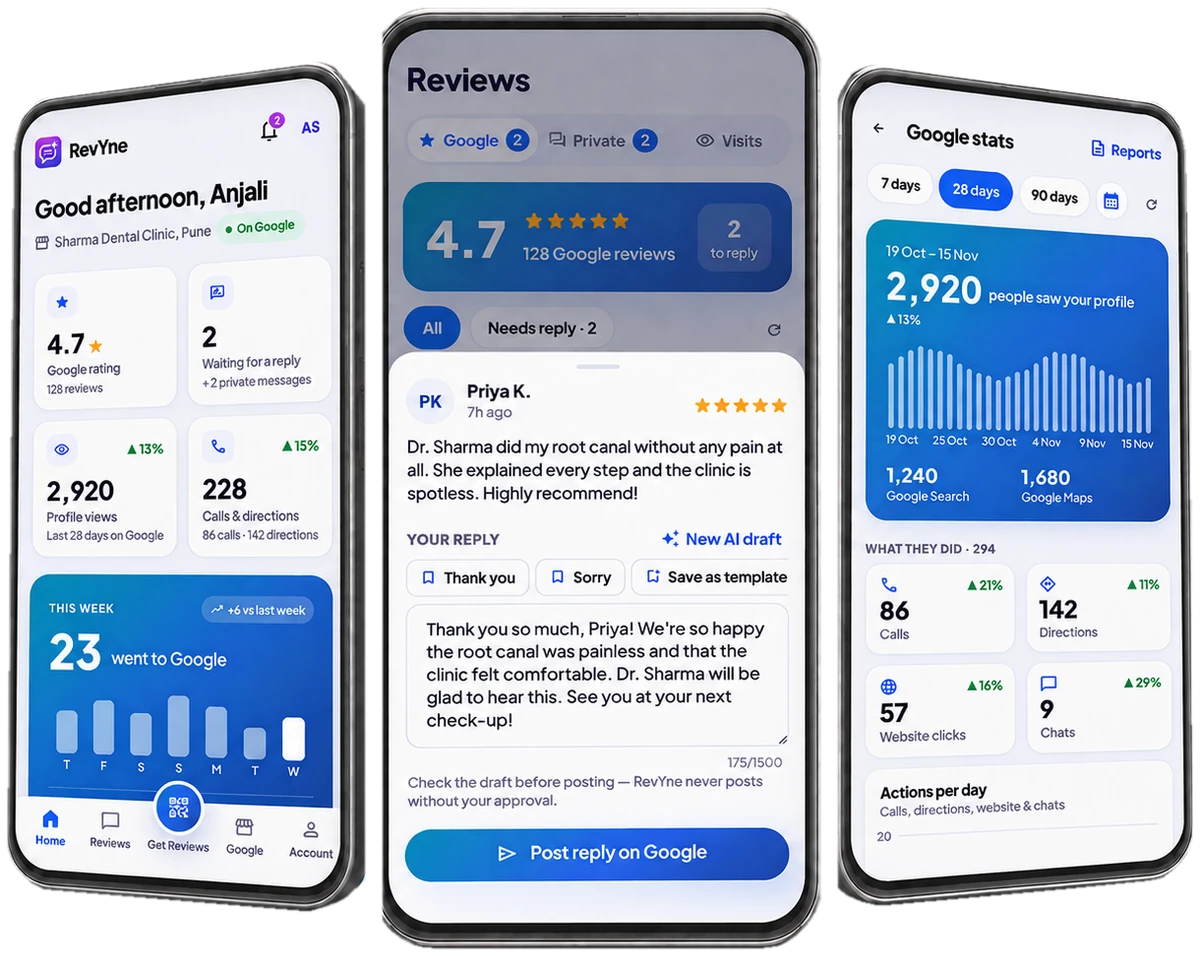
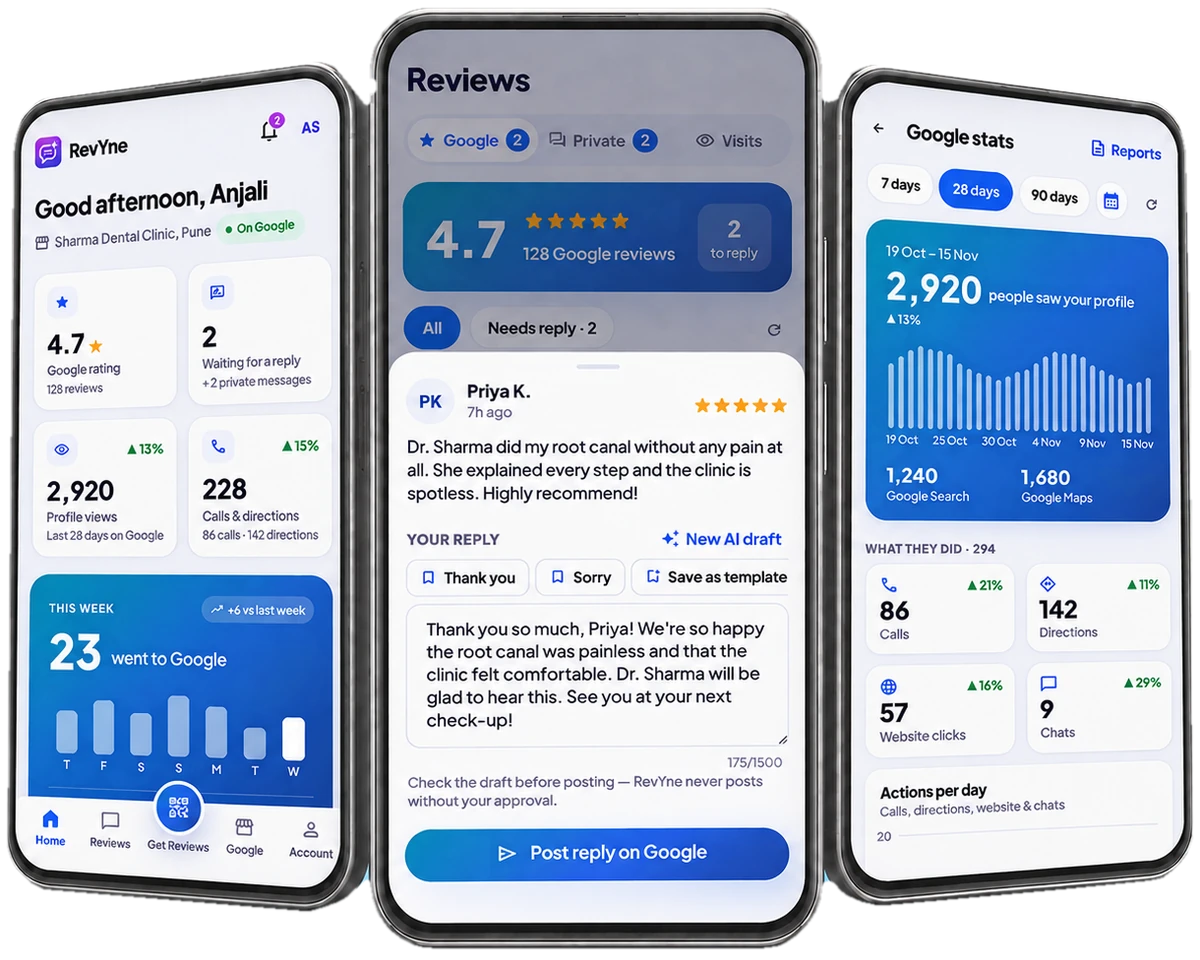
Website: fix centre phone's clipped edge; smooth, instant colour switch; refined phone mockup
- Hero cut-outs: union per-phone outlines with the full combined outline so
  the centre phone's left rim is never clipped (all 5 colours)
- Colour switch: other colours' hero images preload after page load; old and
  new phones cross-fade; theme colours registered with @property so the
  gradient, buttons and accents blend over 0.5s instead of jumping
- Fixed a race where a late animation frame could leave the hero blank
- See it in action phone: thinner bezel, titanium rim highlight, tighter shadow

Changed region(s): [[0.2775, 0.0312, 0.3392, 0.9688], [0.6783, 0.0938, 0.7092, 0.9375]]

diff --git a/apps/website/assets/site.css b/apps/website/assets/site.css
@@ -1,6 +1,24 @@
 /* RevYne website. Palette: design/brand/PALETTE.md */
+/* Theme colours are registered so a colour change animates smoothly
+   (gradients included) instead of jumping. */
+@property --start { syntax: "<color>"; inherits: true; initial-value: #b02fe5; }
+@property --primary { syntax: "<color>"; inherits: true; initial-value: #6334e2; }
+@property --end { syntax: "<color>"; inherits: true; initial-value: #363ddd; }
+@property --primary-50 { syntax: "<color>"; inherits: true; initial-value: #f5f2fc; }
+@property --primary-100 { syntax: "<color>"; inherits: true; initial-value: #e8e2f9; }
+@property --primary-200 { syntax: "<color>"; inherits: true; initial-value: #cfc1f6; }
+@property --primary-600 { syntax: "<color>"; inherits: true; initial-value: #461bbb; }
+@property --deep { syntax: "<color>"; inherits: true; initial-value: #1e0b50; }
+@property --deepest { syntax: "<color>"; inherits: true; initial-value: #120731; }
+@property --bg { syntax: "<color>"; inherits: true; initial-value: #f7f6fc; }
+@property --line { syntax: "<color>"; inherits: true; initial-value: #e4e1f2; }
 :root {
-  --grad: linear-gradient(135deg, #b02fe5 0%, #6334e2 50%, #363ddd 100%);
+  --grad: linear-gradient(135deg, var(--start) 0%, var(--primary) 50%, var(--end) 100%);
+  transition: --start .5s ease, --primary .5s ease, --end .5s ease, --primary-50 .5s ease, --primary-100 .5s ease, --primary-200 .5s ease, --primary-600 .5s ease, --deep .5s ease, --deepest .5s ease, --bg .5s ease, --line .5s ease;
+}
+@media (prefers-reduced-motion: reduce) { :root { transition: none; } }
+
+:root {
   --start: #b02fe5;
   --primary: #6334e2;
   --end: #363ddd;
@@ -29,7 +47,6 @@
 }
 
 :root[data-theme="ocean"] {
-  --grad: linear-gradient(135deg, #0891b2 0%, #2563eb 50%, #1e3a8a 100%);
   --start: #0891b2;
   --primary: #2563eb;
   --end: #1e3a8a;
@@ -45,7 +62,6 @@
   --primary-rgb: 37, 99, 235;
 }
 :root[data-theme="emerald"] {
-  --grad: linear-gradient(135deg, #0d9488 0%, #047857 50%, #064e3b 100%);
   --start: #0d9488;
   --primary: #047857;
   --end: #064e3b;
@@ -61,7 +77,6 @@
   --primary-rgb: 4, 120, 87;
 }
 :root[data-theme="coral"] {
-  --grad: linear-gradient(135deg, #f97316 0%, #be123c 50%, #881337 100%);
   --start: #f97316;
   --primary: #be123c;
   --end: #881337;
@@ -77,7 +92,6 @@
   --primary-rgb: 190, 18, 60;
 }
 :root[data-theme="midnight"] {
-  --grad: linear-gradient(135deg, #475569 0%, #1e293b 50%, #0b1120 100%);
   --start: #475569;
   --primary: #1e293b;
   --end: #0b1120;
@@ -263,28 +277,29 @@ section.tight { padding-top: 0; }
    Sized in em, so one font-size scales the whole phone (showcase vs hero). */
 .device {
   position: relative; z-index: 1; width: 16.5em; font-size: 16px;
-  padding: .5em; border-radius: 2.75em;
-  background: linear-gradient(150deg, #3b3b45 0%, #17171d 38%, #0c0c10 62%, #2a2a33 100%);
+  padding: .36em; border-radius: 2.6em;
+  /* titanium rim: light catches the top-left and bottom-right edges */
+  background: linear-gradient(145deg, #6c6c78 0%, #24242b 14%, #111115 50%, #24242b 86%, #5d5d68 100%);
   box-shadow:
-    inset 0 0 0 1px rgba(255, 255, 255, .16),
-    inset 0 0 0 .19em #0b0b0e,
-    0 1px 1px rgba(0, 0, 0, .2),
-    0 1.1em 2.2em -1em rgba(0, 0, 0, .45),
-    0 2.9em 5.6em -1.9em rgba(var(--glow), .5);
+    inset 0 0 0 1px rgba(255, 255, 255, .22),
+    inset 0 0 0 .16em #08080a,
+    0 1px 2px rgba(0, 0, 0, .25),
+    0 .9em 1.6em -.9em rgba(0, 0, 0, .4),
+    0 2.4em 4em -2em rgba(var(--glow), .45);
 }
-.device-btn { position: absolute; width: .19em; border-radius: .12em; background: linear-gradient(90deg, #26262e, #4a4a55); }
-.device-btn-power { right: -.19em; top: 8.25em; height: 3.25em; }
-.device-btn-vol { right: -.19em; top: 4.4em; height: 2.75em; }
-.screen { position: relative; overflow: hidden; border-radius: 2.25em; background: var(--bg); box-shadow: 0 0 0 1px rgba(0, 0, 0, .6); }
+.device-btn { position: absolute; width: .17em; border-radius: .1em; background: linear-gradient(90deg, #1d1d23, #5a5a66); box-shadow: inset 0 1px 0 rgba(255, 255, 255, .15); }
+.device-btn-power { right: -.15em; top: 8.25em; height: 3.25em; }
+.device-btn-vol { right: -.15em; top: 4.4em; height: 2.75em; }
+.screen { position: relative; overflow: hidden; border-radius: 2.25em; isolation: isolate; background: var(--bg); box-shadow: 0 0 0 1px rgba(0, 0, 0, .6); }
 .screen::after {
   content: ""; position: absolute; inset: 0; pointer-events: none; border-radius: inherit;
   background: linear-gradient(115deg, rgba(255, 255, 255, .16) 0%, rgba(255, 255, 255, 0) 32%, rgba(255, 255, 255, 0) 70%, rgba(255, 255, 255, .06) 100%);
 }
 .status-bar {
   display: flex; align-items: center; justify-content: space-between; height: 1.875em; padding: .375em 1.25em 0 1.375em;
-  background: var(--sb, var(--bg)); color: #16112e; font-size: 1em; font-weight: 700; position: relative; transition: background .3s;
+  background: var(--sb, var(--bg)); color: #16112e; font-size: 1em; font-weight: 600; position: relative; transition: background .3s;
 }
-.sb-time { font-size: .75em; letter-spacing: .01em; }
+.sb-time { font-size: .78em; letter-spacing: .01em; font-feature-settings: "tnum"; }
 .sb-icons { display: inline-flex; align-items: center; gap: .25em; }
 .sb-icons svg { height: .69em; width: auto; }
 .sb-cam { position: absolute; left: 50%; top: .56em; width: .69em; height: .69em; margin-left: -.345em; border-radius: 50%; background: radial-gradient(circle at 35% 35%, #3b3f4a 0 18%, #0a0a0c 30%); box-shadow: 0 0 0 .09em #000; }
@@ -544,7 +559,9 @@ section.tight { padding-top: 0; }
 
 /* Hero: phones float gently and cross-fade when the colour changes */
 .hero-shot img { transition: opacity .22s ease; filter: drop-shadow(0 22px 26px rgba(0, 0, 0, .26)) drop-shadow(0 4px 6px rgba(0, 0, 0, .16)); }
-.hero-shot.is-swapping img { opacity: 0; }
+.hero-shot .hero-next { position: absolute; inset: 0; width: 100%; height: auto; opacity: 0; transition: opacity .45s ease; pointer-events: none; }
+.hero-shot .hero-next.show { opacity: 1; }
+.hero-shot.is-swapping img[data-hero] { opacity: 0; transition: opacity .45s ease; }
 .hero-card { transition: background .5s; }
 
 /* Hero colour picker */

diff --git a/apps/website/assets/site.js b/apps/website/assets/site.js
@@ -153,35 +153,64 @@
   var swatches = [].slice.call(document.querySelectorAll(".theme-picker .sw"));
 
   function imagesFor(theme) { return THEME_IMAGES[theme] ? theme : "royal"; }
+  function heroSet(t) {
+    return {
+      src: "/assets/hero/" + t + "-1200.webp",
+      srcset: "/assets/hero/" + t + "-600.webp 600w, /assets/hero/" + t + "-1200.webp 1200w"
+    };
+  }
+  // After the page has loaded, quietly fetch the other colours' hero pictures
+  // (the same size the browser chose), so switching colour has no wait.
+  window.addEventListener("load", function () {
+    var hero = document.querySelector("img[data-hero]");
+    if (!hero || !swatches.length) return;
+    var later = window.requestIdleCallback || function (f) { setTimeout(f, 1200); };
+    later(function () {
+      var size = /-1200\.webp/.test(hero.currentSrc || "") ? "1200" : "600";
+      Object.keys(THEME_COLOURS).forEach(function (t) {
+        var i = new Image();
+        i.src = "/assets/hero/" + t + "-" + size + ".webp";
+      });
+    });
+  });
 
   function swapImages(theme) {
     var t = imagesFor(theme);
-    // Hero picture: download and decode the new one first, then a quick
-    // fade-out / swap / fade-in, so the phones are never left faded.
+    // Hero picture: cross-fade a second copy over the current one. The other
+    // colours are preloaded after page load, so this is normally instant.
     var hero = document.querySelector("img[data-hero]");
     var shot = hero && hero.closest(".hero-shot");
-    if (hero && hero.getAttribute("src").indexOf("/hero/" + t + "-") === -1) {
-      var big = "/assets/hero/" + t + "-1200.webp";
-      var set = "/assets/hero/" + t + "-600.webp 600w, " + big + " 1200w";
-      var pre = new Image();
-      pre.sizes = hero.sizes; pre.srcset = set; pre.src = big;
+    if (hero && shot && hero.getAttribute("src").indexOf("/hero/" + t + "-") === -1) {
+      var set = heroSet(t);
       var token = (swapImages.token = (swapImages.token || 0) + 1);
-      var swap = function () {
-        if (token !== swapImages.token) return; // a newer choice won
-        if (shot) shot.classList.add("is-swapping");
+      var old = shot.querySelector(".hero-next");
+      if (old) old.remove();
+      var next = new Image();
+      next.className = "hero-next";
+      next.alt = "";
+      next.setAttribute("aria-hidden", "true");
+      next.sizes = hero.sizes;
+      next.srcset = set.srcset;
+      next.src = set.src;
+      shot.appendChild(next);
+      var fade = function () {
+        if (token !== swapImages.token) return;
+        void next.offsetWidth; // commit opacity 0 first so the fade runs
+        next.classList.add("show");
+        shot.classList.add("is-swapping");
         setTimeout(function () {
-          hero.srcset = set; hero.src = big;
-          var reveal = function () { if (shot && token === swapImages.token) shot.classList.remove("is-swapping"); };
-          if (hero.complete && hero.naturalWidth) setTimeout(reveal, 30);
-          else { hero.addEventListener("load", reveal, { once: true }); setTimeout(reveal, 1200); } // never leave it faded
-        }, 200);
+          if (token !== swapImages.token) return;
+          hero.srcset = set.srcset; hero.src = set.src;
+          var settle = function () {
+            if (token !== swapImages.token) return;
+            shot.classList.remove("is-swapping");
+            setTimeout(function () { if (next.parentNode) next.remove(); }, 460);
+          };
+          if (hero.complete && hero.naturalWidth) settle(); else { hero.addEventListener("load", settle, { once: true }); setTimeout(settle, 1500); }
+        }, 470);
       };
-      // Wait for the download (decode can be deferred in background tabs),
-      // with a safety timeout so a slow network never blocks the switch.
-      var fired = false;
-      var go = function () { if (!fired) { fired = true; swap(); } };
-      if (pre.complete && pre.naturalWidth) go();
-      else { pre.onload = go; pre.onerror = go; setTimeout(go, 2500); }
+      if (next.complete && next.naturalWidth) fade();
+      else { next.onload = fade; next.onerror = fade; }
     }
     // Showcase screenshots.
     document.querySelectorAll("img[data-screen]").forEach(function (img) {

diff --git a/apps/website/delete-account/index.html b/apps/website/delete-account/index.html
@@ -20,8 +20,8 @@
   <link rel="preconnect" href="https://fonts.googleapis.com">
   <link rel="preconnect" href="https://fonts.gstatic.com" crossorigin>
   <link href="https://fonts.googleapis.com/css2?family=Plus+Jakarta+Sans:wght@500;600;700;800&display=swap" rel="stylesheet">
-  <link rel="stylesheet" href="/assets/site.css?v=32">
-  <script src="/assets/theme.js?v=32"></script>
+  <link rel="stylesheet" href="/assets/site.css?v=34">
+  <script src="/assets/theme.js?v=34"></script>
   <link rel="canonical" href="https://revyne-pied.vercel.app/delete-account">
   <meta property="og:title" content="Delete your RevYne account">
   <meta property="og:description" content="Delete your account in the app or by email. Here's what gets deleted.">
@@ -133,7 +133,7 @@
   </div>
 </footer>
 
-<script src="/site.config.js?v=32"></script>
-<script src="/assets/site.js?v=32" defer></script>
+<script src="/site.config.js?v=34"></script>
+<script src="/assets/site.js?v=34" defer></script>
 </body>
 </html>

diff --git a/apps/website/pricing/index.html b/apps/website/pricing/index.html
@@ -20,8 +20,8 @@
   <link rel="preconnect" href="https://fonts.googleapis.com">
   <link rel="preconnect" href="https://fonts.gstatic.com" crossorigin>
   <link href="https://fonts.googleapis.com/css2?family=Plus+Jakarta+Sans:wght@500;600;700;800&display=swap" rel="stylesheet">
-  <link rel="stylesheet" href="/assets/site.css?v=32">
-  <script src="/assets/theme.js?v=32"></script>
+  <link rel="stylesheet" href="/assets/site.css?v=34">
+  <script src="/assets/theme.js?v=34"></script>
   <link rel="canonical" href="https://revyne-pied.vercel.app/pricing">
   <meta property="og:title" content="RevYne pricing — plans coming soon">
   <meta property="og:description" content="Simple plans for Indian local businesses. Coming soon.">
@@ -109,7 +109,7 @@
   </div>
 </footer>
 
-<script src="/site.config.js?v=32"></script>
-<script src="/assets/site.js?v=32" defer></script>
+<script src="/site.config.js?v=34"></script>
+<script src="/assets/site.js?v=34" defer></script>
 </body>
 </html>

diff --git a/apps/website/about/index.html b/apps/website/about/index.html
@@ -20,8 +20,8 @@
   <link rel="preconnect" href="https://fonts.googleapis.com">
   <link rel="preconnect" href="https://fonts.gstatic.com" crossorigin>
   <link href="https://fonts.googleapis.com/css2?family=Plus+Jakarta+Sans:wght@500;600;700;800&display=swap" rel="stylesheet">
-  <link rel="stylesheet" href="/assets/site.css?v=32">
-  <script src="/assets/theme.js?v=32"></script>
+  <link rel="stylesheet" href="/assets/site.css?v=34">
+  <script src="/assets/theme.js?v=34"></script>
   <link rel="canonical" href="https://revyne-pied.vercel.app/about">
   <meta property="og:title" content="About RevYne">
   <meta property="og:description" content="Honest Google reviews, made easy. Built by Vistrow Technologies in Pune, India.">
@@ -131,7 +131,7 @@
   </div>
 </footer>
 
-<script src="/site.config.js?v=32"></script>
-<script src="/assets/site.js?v=32" defer></script>
+<script src="/site.config.js?v=34"></script>
+<script src="/assets/site.js?v=34" defer></script>
 </body>
 </html>

diff --git a/apps/website/privacy/index.html b/apps/website/privacy/index.html
@@ -20,8 +20,8 @@
   <link rel="preconnect" href="https://fonts.googleapis.com">
   <link rel="preconnect" href="https://fonts.gstatic.com" crossorigin>
   <link href="https://fonts.googleapis.com/css2?family=Plus+Jakarta+Sans:wght@500;600;700;800&display=swap" rel="stylesheet">
-  <link rel="stylesheet" href="/assets/site.css?v=32">
-  <script src="/assets/theme.js?v=32"></script>
+  <link rel="stylesheet" href="/assets/site.css?v=34">
+  <script src="/assets/theme.js?v=34"></script>
   <link rel="canonical" href="https://revyne-pied.vercel.app/privacy">
   <meta property="og:title" content="RevYne privacy policy">
   <meta property="og:description" content="How RevYne handles your data and your Google Business Profile data.">
@@ -247,7 +247,7 @@
   </div>
 </footer>
 
-<script src="/site.config.js?v=32"></script>
-<script src="/assets/site.js?v=32" defer></script>
+<script src="/site.config.js?v=34"></script>
+<script src="/assets/site.js?v=34" defer></script>
 </body>
 </html>

diff --git a/apps/website/contact/index.html b/apps/website/contact/index.html
@@ -20,8 +20,8 @@
   <link rel="preconnect" href="https://fonts.googleapis.com">
   <link rel="preconnect" href="https://fonts.gstatic.com" crossorigin>
   <link href="https://fonts.googleapis.com/css2?family=Plus+Jakarta+Sans:wght@500;600;700;800&display=swap" rel="stylesheet">
-  <link rel="stylesheet" href="/assets/site.css?v=32">
-  <script src="/assets/theme.js?v=32"></script>
+  <link rel="stylesheet" href="/assets/site.css?v=34">
+  <script src="/assets/theme.js?v=34"></script>
   <link rel="canonical" href="https://revyne-pied.vercel.app/contact">
   <meta property="og:title" content="Contact RevYne">
   <meta property="og:description" content="Email us at hello@vistrow.com. Mon–Sat, 10am–7pm IST. Pune, India.">
@@ -133,7 +133,7 @@
   </div>
 </footer>
 
-<script src="/site.config.js?v=32"></script>
-<script src="/assets/site.js?v=32" defer></script>
+<script src="/site.config.js?v=34"></script>
+<script src="/assets/site.js?v=34" defer></script>
 </body>
 </html>

diff --git a/apps/website/terms/index.html b/apps/website/terms/index.html
@@ -20,8 +20,8 @@
   <link rel="preconnect" href="https://fonts.googleapis.com">
   <link rel="preconnect" href="https://fonts.gstatic.com" crossorigin>
   <link href="https://fonts.googleapis.com/css2?family=Plus+Jakarta+Sans:wght@500;600;700;800&display=swap" rel="stylesheet">
-  <link rel="stylesheet" href="/assets/site.css?v=32">
-  <script src="/assets/theme.js?v=32"></script>
+  <link rel="stylesheet" href="/assets/site.css?v=34">
+  <script src="/assets/theme.js?v=34"></script>
   <link rel="canonical" href="https://revyne-pied.vercel.app/terms">
   <meta property="og:title" content="RevYne terms of service">
   <meta property="og:description" content="The terms for using RevYne.">
@@ -158,7 +158,7 @@
   </div>
 </footer>
 
-<script src="/site.config.js?v=32"></script>
-<script src="/assets/site.js?v=32" defer></script>
+<script src="/site.config.js?v=34"></script>
+<script src="/assets/site.js?v=34" defer></script>
 </body>
 </html>

diff --git a/apps/website/index.html b/apps/website/index.html
@@ -24,8 +24,8 @@
   <link rel="preconnect" href="https://fonts.googleapis.com">
   <link rel="preconnect" href="https://fonts.gstatic.com" crossorigin>
   <link href="https://fonts.googleapis.com/css2?family=Plus+Jakarta+Sans:wght@500;600;700;800&display=swap" rel="stylesheet">
-  <link rel="stylesheet" href="/assets/site.css?v=32">
-  <script src="/assets/theme.js?v=32"></script>
+  <link rel="stylesheet" href="/assets/site.css?v=34">
+  <script src="/assets/theme.js?v=34"></script>
   <script type="application/ld+json">
   {
     "@context": "https://schema.org",
@@ -310,7 +310,7 @@
   </div>
 </footer>
 
-<script src="/site.config.js?v=32"></script>
-<script src="/assets/site.js?v=32" defer></script>
+<script src="/site.config.js?v=34"></script>
+<script src="/assets/site.js?v=34" defer></script>
 </body>
 </html>

diff --git a/apps/website/404.html b/apps/website/404.html
@@ -20,8 +20,8 @@
   <link rel="preconnect" href="https://fonts.googleapis.com">
   <link rel="preconnect" href="https://fonts.gstatic.com" crossorigin>
   <link href="https://fonts.googleapis.com/css2?family=Plus+Jakarta+Sans:wght@500;600;700;800&display=swap" rel="stylesheet">
-  <link rel="stylesheet" href="/assets/site.css?v=32">
-  <script src="/assets/theme.js?v=32"></script>
+  <link rel="stylesheet" href="/assets/site.css?v=34">
+  <script src="/assets/theme.js?v=34"></script>
 </head>
 <body>
 <a class="skip" href="#main">Skip to content</a>
@@ -95,7 +95,7 @@
   </div>
 </footer>
 
-<script src="/site.config.js?v=32"></script>
-<script src="/assets/site.js?v=32" defer></script>
+<script src="/site.config.js?v=34"></script>
+<script src="/assets/site.js?v=34" defer></script>
 </body>
 </html>
